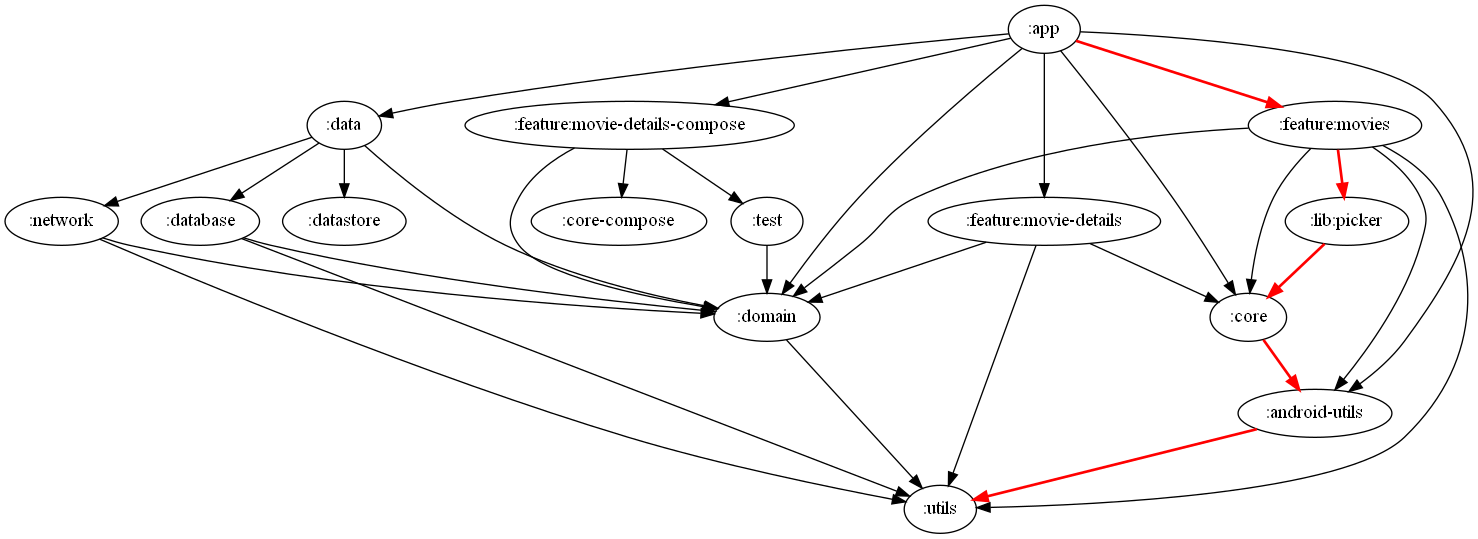
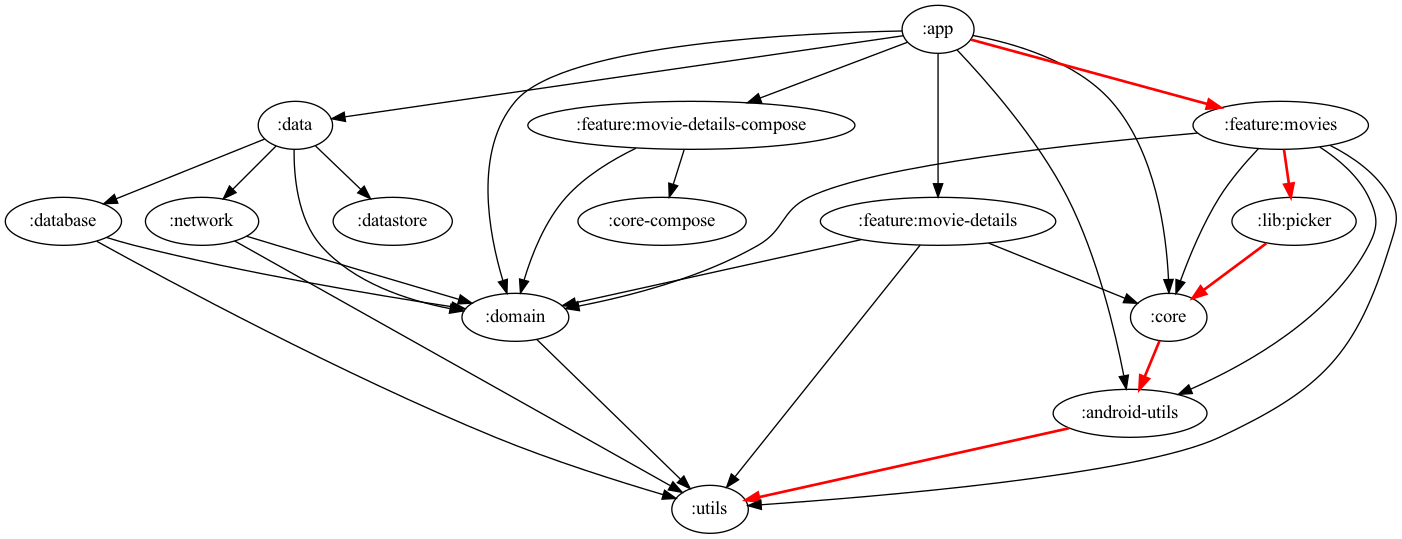
[movies] deps: Update module graph assert to 2.3.0 version
This update also:
- Updates the module graph assert .dot and .png files.
- Enables assert on any build configuration for module graph assert.

diff --git a/buildSrc/src/main/kotlin/Plugins.kt b/buildSrc/src/main/kotlin/Plugins.kt
@@ -39,7 +39,7 @@ object Plugins {
         const val GRADLE_DOCTOR = "0.8.1" // Released: 31-05-22
 
         // Releases: https://github.com/jraska/modules-graph-assert/releases
-        const val MODULE_GRAPH_ASSERT = "2.2.0" // Released: 18-01-22
+        const val MODULE_GRAPH_ASSERT = "2.3.0" // Released: 03-09-22
 
         // Releases: https://github.com/jacoco/jacoco/releases
         const val JACOCO = "0.8.8" // Released: 05-04-22
